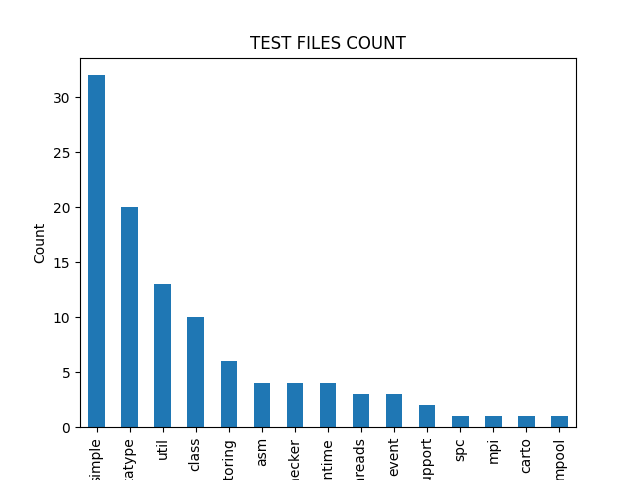
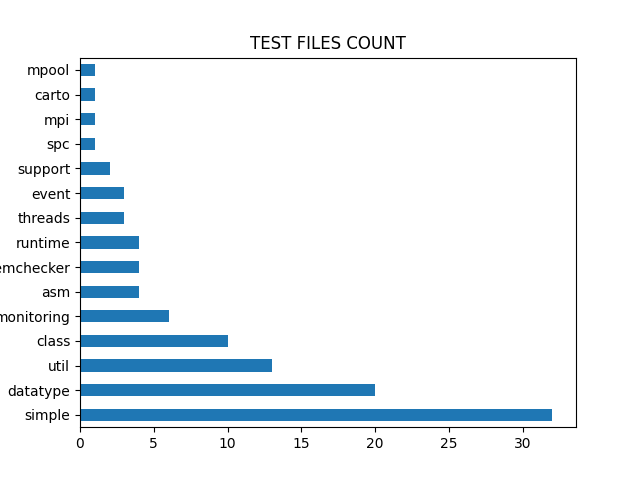
updated test files plot

Changed region(s): [[0.0, 0.125, 0.9062, 1.0]]

diff --git a/gen-figures.py b/gen-figures.py
@@ -21,7 +21,7 @@ plt.savefig("assert_count_plot.png")
 plt.show()
 
 fig, ax = plt.subplots()
-data['Sub Directory'].value_counts().plot(ax=ax, kind='bar', xlabel='Folders', ylabel='Count')
+data['Sub Directory'].value_counts().plot(ax=ax, kind='barh', xlabel='Folders', ylabel='Count')
 plt.title('TEST FILES COUNT')
 plt.savefig("testFiles_count_plot.png")
 plt.show()
